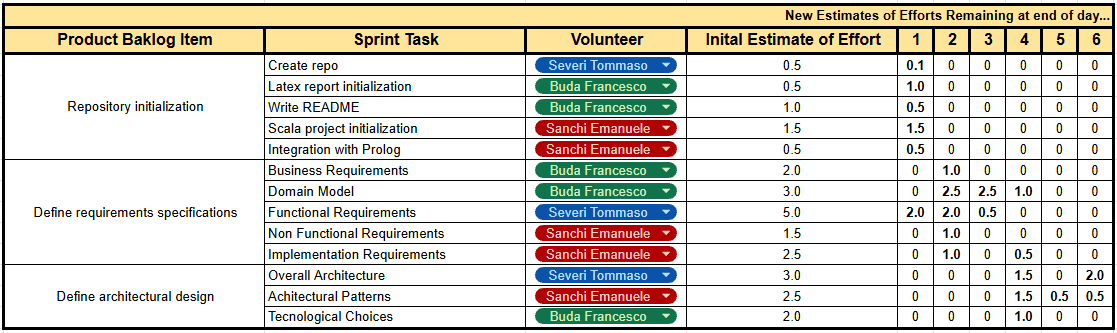
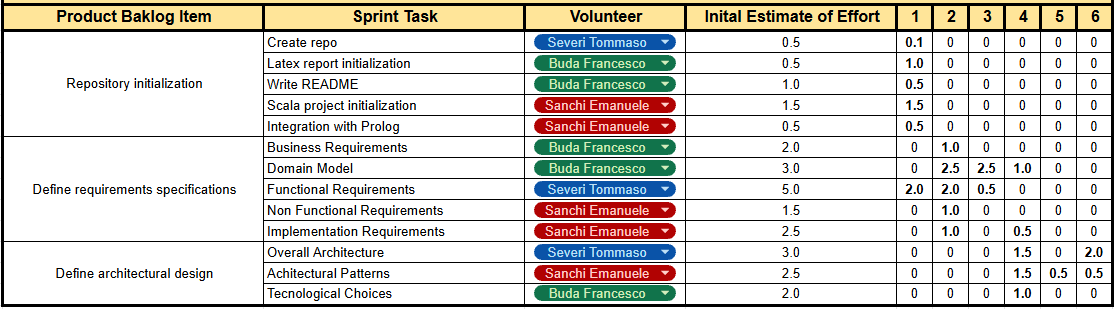
feat: update retrospective and sprint-5 sections with backlog figures

diff --git a/report/sections/retrospective.tex b/report/sections/retrospective.tex
@@ -20,8 +20,15 @@ da raggiungere ha permesso di ottenere risultati tangibili in tempi brevi e
 di avere una visione chiara del progresso del progetto nonché della quantità
 di tempo dedicato da ciascun membro del team. 
 
-Di seguito vengono riportati il product backlog e gli sprint backlog utilizzati durante lo sviluppo
+Di seguito vengono riportati il product backlog (figura \ref{fig:product-backlog}) e gli sprint backlog utilizzati durante lo sviluppo
 insieme a un commento sui risultati ottenuti per ciascuno sprint.
+
+\begin{figure}[ht!]
+    \centering
+    \includegraphics[width=1\textwidth]{figures/product-backlog.png}
+    \caption{Product Backlog}
+    \label{fig:product-backlog}
+\end{figure}
 
 \input{sections/subsections/sprint-1.tex}
 \input{sections/subsections/sprint-2.tex}

diff --git a/report/sections/subsections/sprint-5.tex b/report/sections/subsections/sprint-5.tex
@@ -1,1 +1,10 @@
 \subsection{Sprint-5} \label{sec:sprint-5}
+Lo sprint-5 è stato lo sprint conclusivo del progetto, è stato dedicato alla pulizia del codice e al completamento della documentazione
+e della relazione finale.
+
+\begin{figure}[ht!]
+    \centering
+    \includegraphics[width=1\textwidth]{figures/backlog-sprint-5.png}
+    \caption{Backlog per lo Sprint-5}
+    \label{fig:backlog-sprint-5}
+\end{figure}
